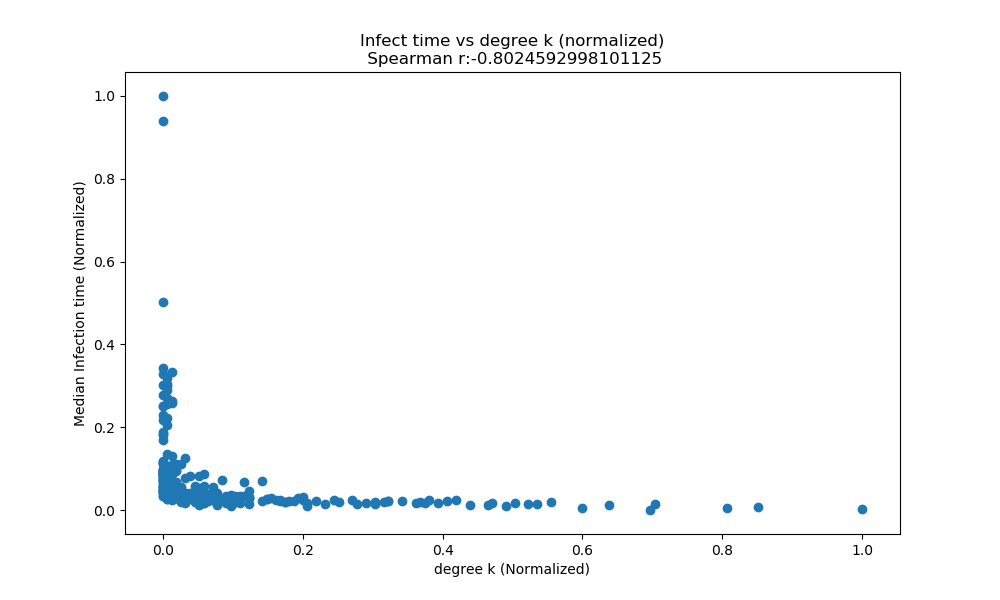
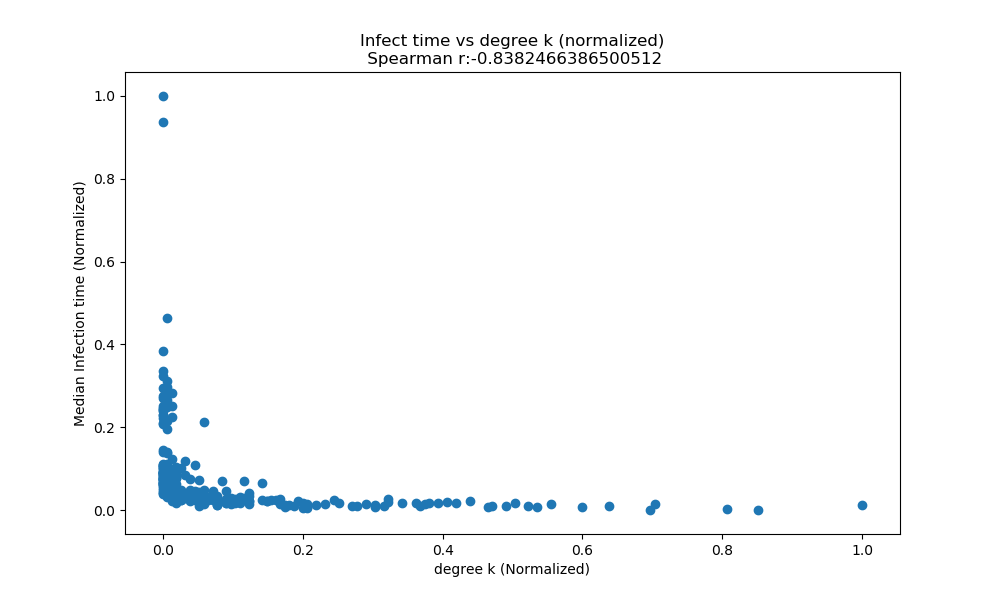
Shutting down airports

diff --git a/SI_model.py b/SI_model.py
@@ -12,6 +12,7 @@ from sklearn.preprocessing import minmax_scale
 fh = "aggregated_US_air_traffic_network_undir.edg"
 G=nx.read_weighted_edgelist(fh)
 nodes_n = G.number_of_nodes()
+nodes = list(G.nodes())
 
 ft = "events_US_air_traffic_GMT.txt"
 f = open(ft,'r')
@@ -34,7 +35,7 @@ air_traffic_GMT_sorted = sorted(air_traffic_GMT,key=sorter)
 print("data read done")
 
 #dict store
-def SI_model(n,p):
+def SI_model(n,p, immunized=[]):
     
     infection_times={}
     infection_times[n] = float(air_traffic_GMT_sorted[0][2])
@@ -52,10 +53,11 @@ def SI_model(n,p):
                     #if destination_node == 41:
                         # print(infection_times[destination_node]," : update")
             else:
-                if np.random.rand() < p and departure_t>infection_times[source_node]:
+                if destination_node not in immunized and np.random.rand() < p and departure_t>infection_times[source_node] :
                     infection_times[destination_node] = arrival_t
                     #if destination_node == 41:
                         # print(infection_times[destination_node])
+    # print(infection_times , "????")
 
     return infection_times
 
@@ -76,7 +78,7 @@ def SI_model_a(n,p):
                     #if destination_node == 41:
                         # print(infection_times[destination_node]," : update")
             else:
-                if(np.random.rand() < p):
+                if(np.random.rand() < p) :
                     infection_times[destination_node] = arrival_t
                     #if destination_node == 41:
                         # print(infection_times[destination_node])
@@ -84,27 +86,31 @@ def SI_model_a(n,p):
     return infection_times
 
 # prevalence 
-def prevalence(n,p, iter = 10):
-    infection_times_multi = {}
+def prevalence(n ,p, iter = 10, multi_n = False, immunized = [], n_multi=[]):
+    #infection_times_multi = {}
     prevalence_multi = []
 
+    if multi_n:
+        N = n_multi
+    else:
+        N = [n]*iter
     i = 0
-    while i < iter :
-        infection_times_multi[i] = SI_model(n,p)
-        a = sorted(infection_times_multi[i].values())
-        print(len(a))
+    while i < iter:
+        infection_times_multi = SI_model(N[i],p, immunized)
+        a = sorted(infection_times_multi.values())
+        # print(len(a))
         num_steps = []
         for time in timestamps:
             num_steps.append(float(sum(a<=time))/nodes_n)
-            prevalence_multi.append(num_steps) 
-            i += 1
+        prevalence_multi.append(num_steps) 
+        i += 1
     return prevalence_multi
 
 
 #-------------------- Task 1 --------------------#
 def task1():
     print("start infecting")
-    infection_times = SI_model(0,1)
+    infection_times = SI_model(53,0.5)
     # infection_times_a = SI_model_a(0,1)
     print("infecting finished")
 
@@ -142,8 +148,11 @@ def task2():
 
     plt.show()
 
+
 #-------------------- Task 3 --------------------#
 def task3():
+    print("start infecting")
+
     N = [0, 4, 41, 100, 200]
     P = [0.1]
 
@@ -171,7 +180,14 @@ def task3():
 
     plt.show()
 
-#-------------------- Task 3 --------------------#
+#-------------------- Task 4 --------------------#
+nodal_measures = {
+    'unweighted clustering coefficient c': nx.clustering(G),
+    'degree k': dict(G.degree()),
+    'strength s': dict(G.degree(weight='weight')),
+    'unweighted betweenness centrality': nx.betweenness_centrality(G),
+    }
+
 def task4():
     print("start infecting")
 
@@ -194,17 +210,10 @@ def task4():
     print("infecting finished")
 
     #Visualization
-    nodal_measures = {
-        'unweighted clustering coefficient c': nx.clustering(G),
-        'degree k': dict(G.degree()),
-        'strength s': G.degree(weight='weight'),
-        'unweighted betweenness centrality': nx.betweenness_centrality(G),
-    }
 
     spearmanr_ls = []
 
     for i, (title, info) in enumerate(nodal_measures.items()):
-        nodes = list(G.nodes())
         x = [info[node] for node in nodes]
         y = [median[int(node)] for node in nodes]
         rho = sp.stats.spearmanr(x, y).correlation
@@ -220,10 +229,69 @@ def task4():
         plt.title(f'Infect time vs {title} (normalized)\n Spearman r:{rho}')
     
         plt.savefig(f'result/{title}')
-        plt.show()
+        #plt.show()
     
     for measure, rho in spearmanr_ls:
         print(f'{measure}: {rho}')
+
+
+#-------------------- Task 5 --------------------#
+def random_neighbour(n):
+    immunized = []
+    i=0
+    node = np.random.choice(nodes, n)
+    while i < n:
+        node_neighbour = np.random.choice(list(G.neighbors(node[i])))
+        immunized.append(int(node_neighbour))
+        i += 1
+
+    return immunized
+
+def task5():
+    iter = 20
+    p = 0.5
+    multi_n = True 
+    immunized_n = 10
+
+    #immunized methods and their immunized nodes
+    immunized_methods = {}
+    immunized_methods["random_neighbour"] = random_neighbour(immunized_n)
+    immunized_methods["random"] = list(map(int, np.random.choice(nodes, immunized_n)))
+
+    for key, value in nodal_measures.items():
+        highest_nodes = [int(k) for k, v in sorted(value.items(), key=lambda item: item[1], reverse=True)]
+        immunized_methods[key] = highest_nodes[:immunized_n]
+
+    
+    # seed nodes group
+    immunied_nodes_g = []
+    for key, value in immunized_methods.items():
+        immunied_nodes_g = list(set(immunied_nodes_g).union(set(value)))
+    unimmunied_nodes = list(set(nodes).difference(set(immunied_nodes_g)))
+    n_multi = list(map(int, np.random.choice(unimmunied_nodes, iter)))
+
+    #prevalence calculation
+    prevalence_multi_avg = []
+    for key, immunized in immunized_methods.items():
+        print(immunized)
+        prevalence_multi = prevalence(0, p, iter, multi_n, immunized, n_multi)
+        prevalence_multi_avg.append([float(sum(l))/len(l) for l in zip(*prevalence_multi)])
+
+    # Task5 Visualization
+    keys = list(immunized_methods.keys())
+    fig, ax = plt.subplots(figsize=(10,6))
+    ax.set_xlabel('TimeStamps')
+    ax.set_ylabel('Prevalence')
+    ax.set_title("Effectiveness of Immunization strategy")
+    n = 0
+    for prevalences in prevalence_multi_avg:
+        plt.plot(list(timestamps), prevalences, label=keys[n])
+        n += 1
+        ax.legend()
+
+    plt.show()
+
+
 #Visualization
 # si_animator.visualize_si(
 #         infection_times_a,
@@ -245,5 +313,6 @@ timestamps = np.linspace(min_t, max_t, steps)
 # main 
 #task1()
 #task2()
-# task3()
-task4()
+#task3()
+#task4()
+task5()
